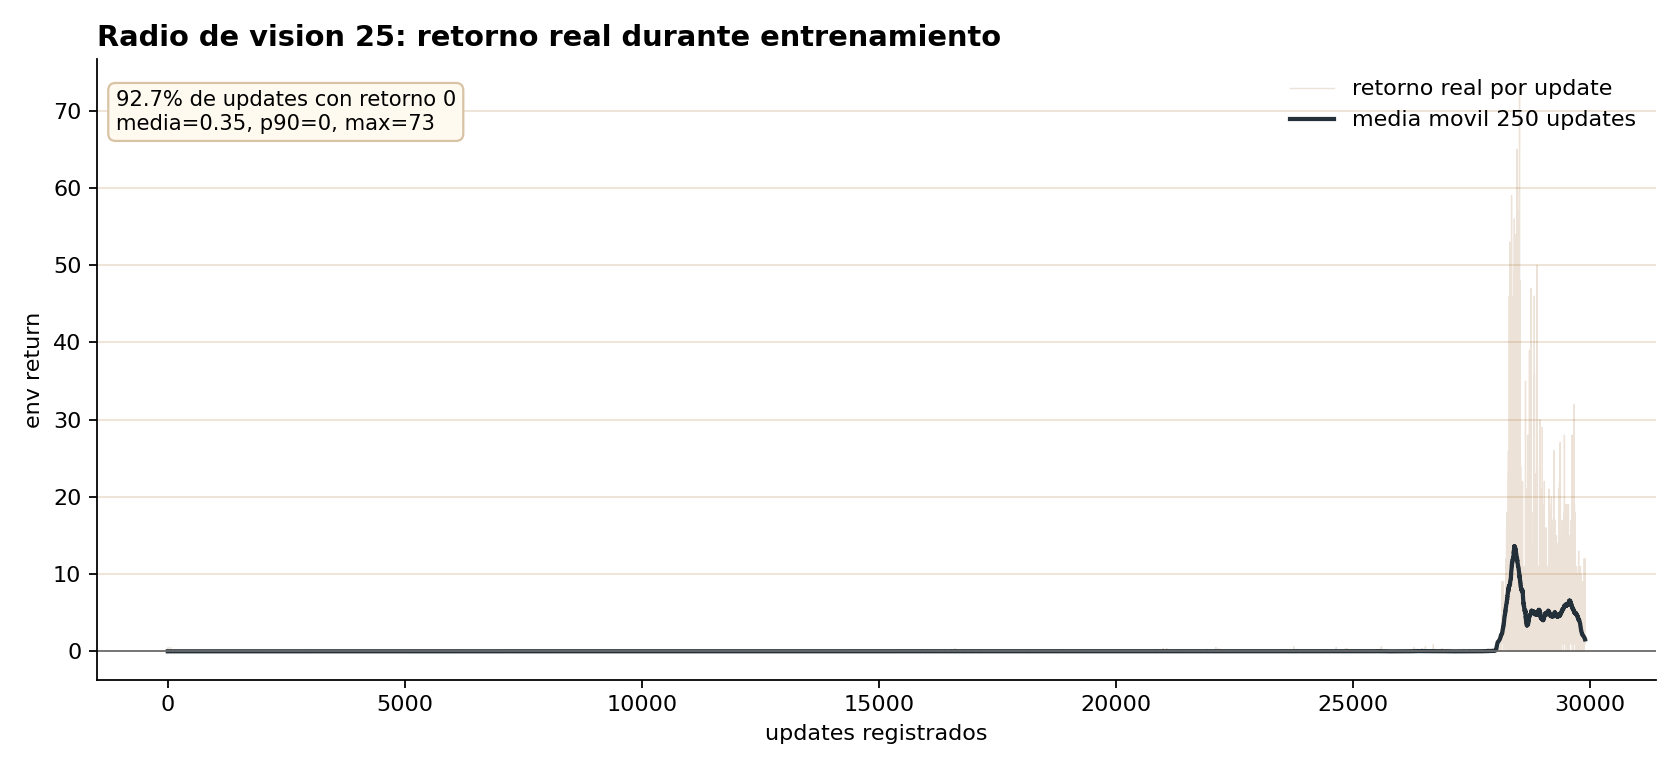
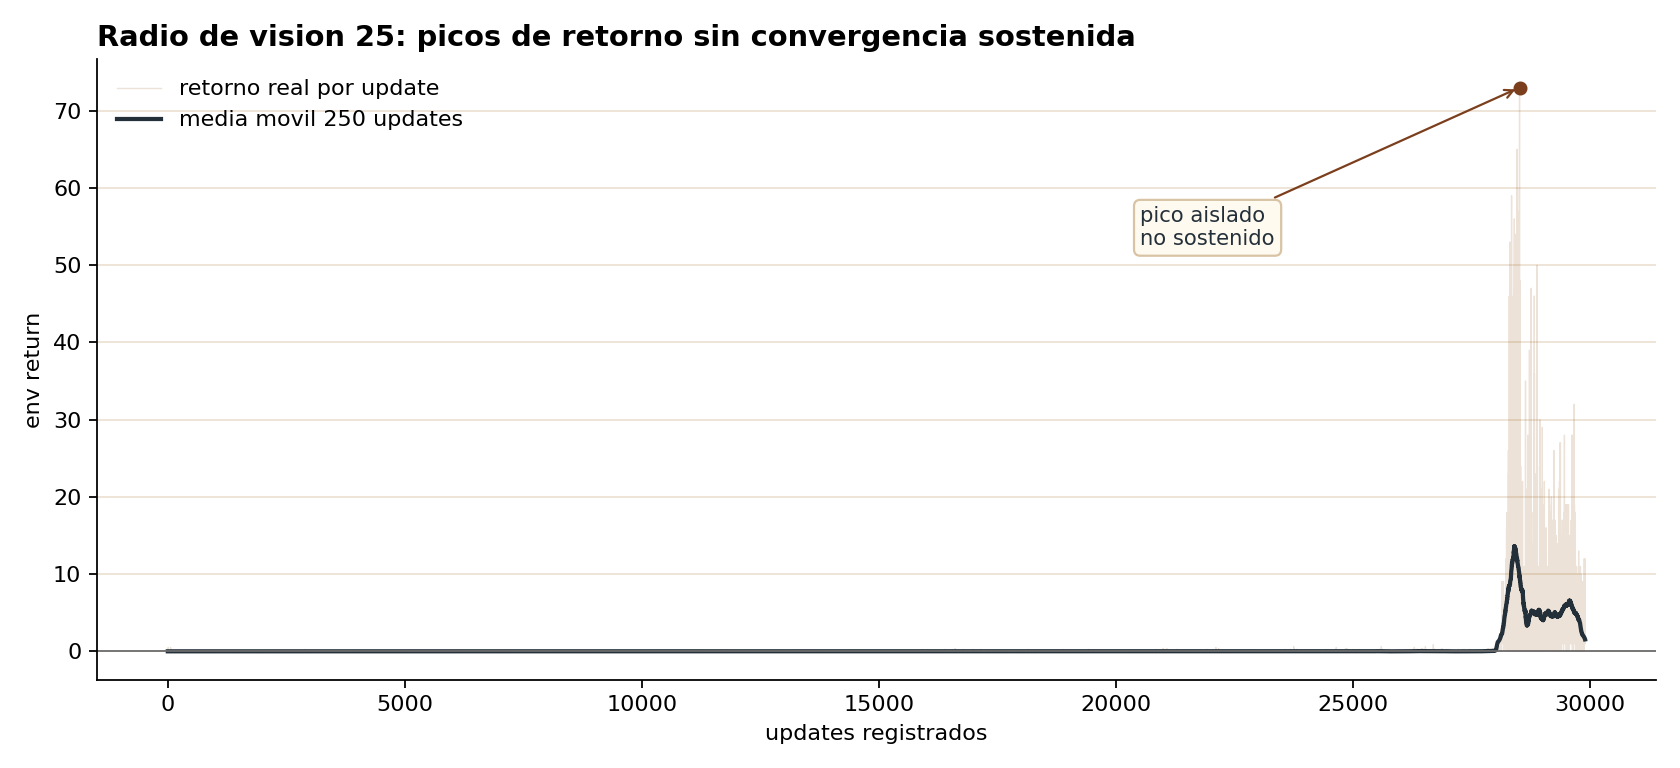
docs: refine reward analysis and update related plot

diff --git a/docs/index.html b/docs/index.html
@@ -838,13 +838,10 @@
                   </p>
                   <p>
                     La curva resume el problema mejor que un único mejor punto:
-                    el <code>92.7%</code> de los updates registrados tuvo
-                    retorno real cero; la media fue <code>0.35</code> y el
-                    percentil 90 también fue <code>0</code>. Sí hubo picos
-                    aislados, incluido un máximo de <code>73</code>, pero esos
-                    picos no se sostuvieron. Para leer el comportamiento de
-                    pickup hay que apoyarse en el rollout visual: la métrica dura
-                    del gráfico es entrega al hub.
+                    aparece algún pico de reward, pero no se transforma en una
+                    meseta ni en una tendencia sostenida. Para leer el
+                    comportamiento de pickup hay que apoyarse en el rollout
+                    visual: la métrica dura del gráfico es entrega al hub.
                   </p>
                   <p class="experiment-note-reading">
                     La lectura es que la visión global introdujo demasiados
